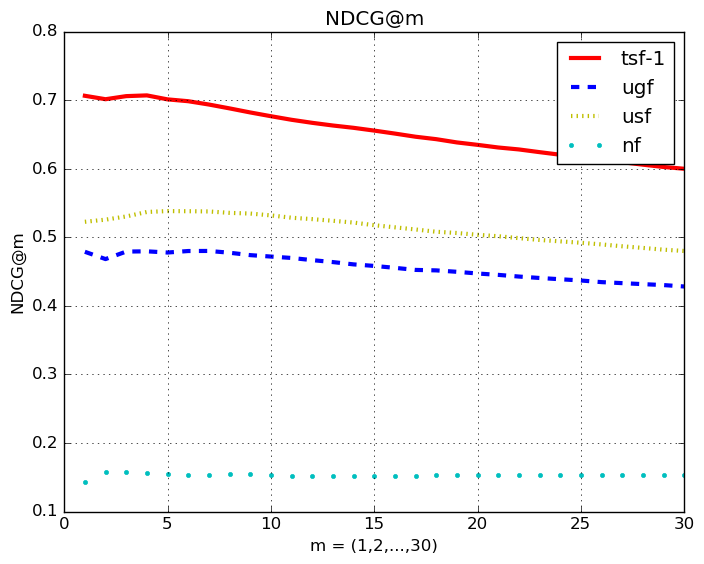
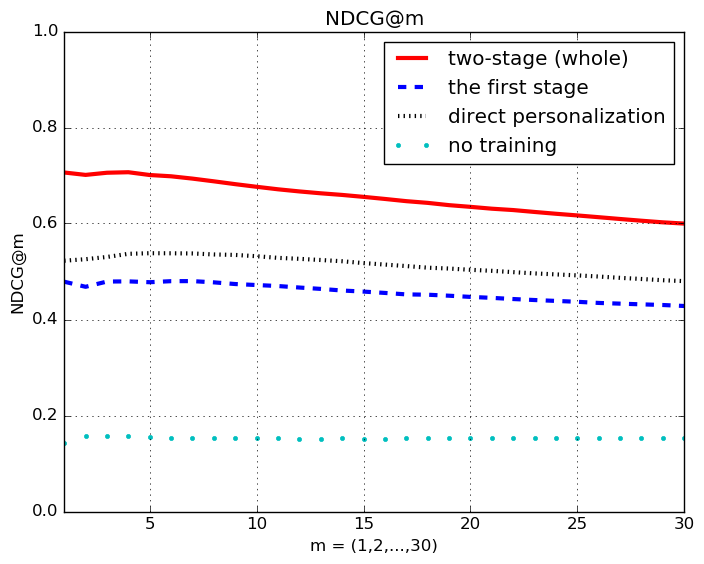
3*prep: all figures

diff --git a/models/fashionNet_8/training_record/t8.1_finetune_test/training_script/results/figures/visualization_whole.py b/models/fashionNet_8/training_record/t8.1_finetune_test/training_script/results/figures/visualization_whole.py
@@ -14,7 +14,7 @@ optimal_ndcg_at = []
 initial_ndcg_at = []
 cmp_initial_ndcg_at = []
 
-new_optimal_ndcg_at = []
+cmp_optimal_ndcg_at = []
 
 ndcg_at_whole = open('./NDCG_at.txt').readlines()
 
@@ -28,9 +28,11 @@ for i in range(0,ndcg_at_length):
 
 fig = plt.figure()
 ax_left = fig.add_subplot(111)
+plt.ylim([0,1])
+plt.xlim([1,30])
 ax_left.plot(ndcg_at_idx, optimal_ndcg_at, '-r', label = 'two-stage (whole)', LineWidth = 3)
 ax_left.plot(ndcg_at_idx, initial_ndcg_at, '--b', label = 'the first stage', LineWidth = 3)
-ax_left.plot(ndcg_at_idx, cmp_optimal_ndcg_at, ':y', label = 'direct personalization', LineWidth = 3)
+ax_left.plot(ndcg_at_idx, cmp_optimal_ndcg_at, ':k', label = 'direct personalization', LineWidth = 3)
 ax_left.plot(ndcg_at_idx, cmp_initial_ndcg_at, '.c', label = 'no training', LineWidth = 3)
 lines_left, labels_left = ax_left.get_legend_handles_labels()   
 ax_left.legend(lines_left, labels_left, loc=0)
@@ -48,7 +50,7 @@ top_k_optimal = []
 top_k_initial = []
 cmp_top_k_initial = []
 
-new_top_k_optimal = []
+cmp_top_k_optimal = []
 
 top_k_posi_num_whole = open('./top_k_posi_num.txt').readlines()
 
@@ -61,9 +63,11 @@ for i in range(0,ndcg_at_length):
 
 fig = plt.figure()
 ax_left = fig.add_subplot(111)
+plt.ylim([0,30])
+plt.xlim([1,30])
 ax_left.plot(top_k_idx, top_k_optimal, '-r', label = 'two-stage (whole)', LineWidth = 3)
 ax_left.plot(top_k_idx, top_k_initial, '--b', label = 'the first stage', LineWidth = 3)
-ax_left.plot(top_k_idx, cmp_top_k_optimal, ':y', label = 'direct personalization', LineWidth = 3)
+ax_left.plot(top_k_idx, cmp_top_k_optimal, ':k', label = 'direct personalization', LineWidth = 3)
 ax_left.plot(top_k_idx, cmp_top_k_initial, '.c', label = 'no training', LineWidth = 3)
 lines_left, labels_left = ax_left.get_legend_handles_labels()   
 ax_left.legend(lines_left, labels_left, loc=0)

diff --git a/models/fashionNet_3/training_record/t3.2_finetune_test/training_script/results/figures/visualization_whole.py b/models/fashionNet_3/training_record/t3.2_finetune_test/training_script/results/figures/visualization_whole.py
@@ -16,7 +16,7 @@ cmp_initial_ndcg_at = []
 
 new_optimal_ndcg_at = []
 
-ndcg_at_whole = open('../../../../t9.1_finetune_test/training_script/results/figures/NDCG_at.txt').readlines()
+ndcg_at_whole = open('../../../../t3.1_finetune_test/training_script/results/figures/NDCG_at.txt').readlines()
 new_ndcg_at_whole = open('./NDCG_at.txt').readlines()
 
 ndcg_at_length = 30
@@ -54,7 +54,7 @@ cmp_top_k_initial = []
 
 new_top_k_optimal = []
 
-top_k_posi_num_whole = open('../../../../t9.1_finetune_test/training_script/results/figures/top_k_posi_num.txt').readlines()
+top_k_posi_num_whole = open('../../../../t3.1_finetune_test/training_script/results/figures/top_k_posi_num.txt').readlines()
 new_top_k_posi_num_whole = open('./top_k_posi_num.txt').readlines()
 
 for i in range(0,ndcg_at_length):
